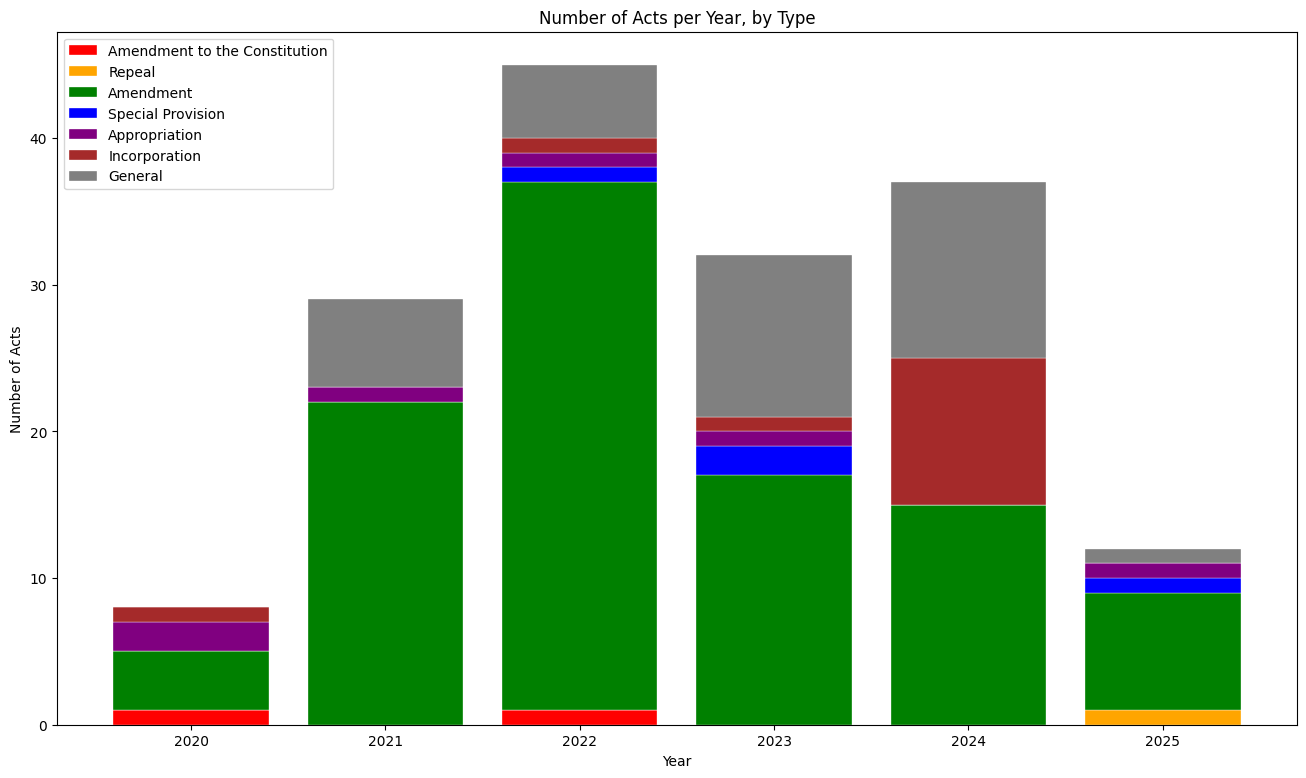
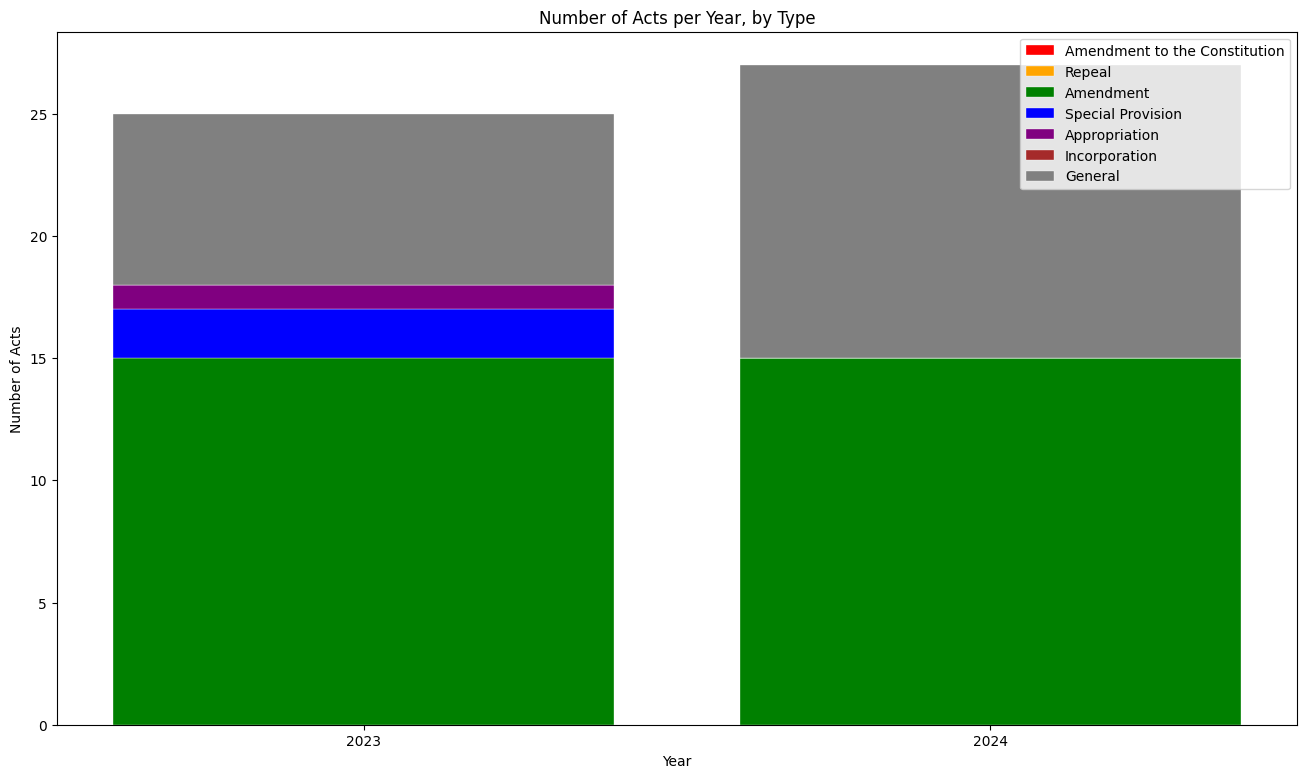
🤖 [readme_build.yml] 2025-08-19-0643

diff --git a/README.md b/README.md
@@ -1,206 +1,78 @@
 # 🇱🇰 Acts from the Sri Lankan Parliament ([lk_acts](https://github.com/nuuuwan/lk_acts))
 
-Scraped  **163** acts (47.01 MB) from [www.parliament.lk](https://www.parliament.lk/en) as of **2025-08-19 10:10:08**.
+Scraped  **52** acts (0.52 MB) from [www.parliament.lk](https://www.parliament.lk/en) as of **2025-08-19 12:13:25**.
 
 ![Year Chart](images/chart_year.png)
 
 ## Download Status
 
-| year | n_metadata | n_pdf | n_txt | n_act_json |
+| decade | n_metadata | n_pdf | n_txt | n_act_json |
 | :-- | --: | --: | --: | --: |
-| 2025 | 12 | 12 | 12 | 2 |
-| 2024 | 37 | 37 | 37 | 27 |
-| 2023 | 32 | 32 | 32 | 25 |
-| 2022 | 45 | 45 | 45 | 35 |
-| 2021 | 29 | 29 | 29 | 18 |
-| 2020 | 8 | 8 | 8 | 0 |
-| Total | 163 | 163 | 163 | 107 |
+| 2020s | 52 | 2 | 2 | 2 |
+| Total | 52 | 2 | 2 | 2 |
 
 ## 🤗 Hugging Face Datasets (🆕)
 
 - [lk-acts-2020-2024-acts](https://huggingface.co/datasets/nuuuwan/lk-acts-2020-2024-acts)
 - [lk-acts-2020-2024-chunks](https://huggingface.co/datasets/nuuuwan/lk-acts-2020-2024-chunks)
 
-## Acts (163)
+## Acts (52)
 
-### 2025 (12)
+### 2024 (27)
 
-- 🟢 `12/2025` [Companies (Amendment)](data/acts/2020s/2025/2025-012) (2025-08-04)
-- 🟢 `11/2025` [National Minimum Wage of Workers (Amendment)](data/acts/2020s/2025/2025-011) (2025-07-22)
-- 🟢 `10/2025` [Budgetary Relief Allowance of Workers (Amendment)](data/acts/2020s/2025/2025-010) (2025-07-23)
-- 🟢 `9/2025` [Budgetary Relief Allowance Of Workers (Amendment)](data/acts/2020s/2025/2025-009) (2025-07-23)
-- 🟢 `8/2025` [National Transport Commission (Amendment)](data/acts/2020s/2025/2025-008) (2025-06-19)
-- 🟢 `7/2025` [CODE OF CRIMINAL PROCEDURE (AMENDMENT)](data/acts/2020s/2025/2025-007) (2025-06-18)
-- 🟠 `6/2025` [FOREIGN LOANS (REPEAL)](data/acts/2020s/2025/2025-006) (2025-05-23)
-- ⚪ `5/2025` [Proceeds of Crime](data/acts/2020s/2025/2025-005) (2025-04-30)
-- 🟢 `4/2025` [Value Added Tax (Amendment)](data/acts/2020s/2025/2025-004) (2025-04-11)
-- 🟣 `3/2025` [Appropriation](data/acts/2020s/2025/2025-003) (2025-03-21)
-- 🟢 `2/2025` [Inland Revenue (Amendment)](data/acts/2020s/2025/2025-002) (2025-03-20)
-- 🔵 `1/2025` [Local Authorities Elections (Special Provisions)](data/acts/2020s/2025/2025-001) (2025-02-17)
+- 🟢 `50/2024` [Code of Criminal Procedure (Amendment)](../lk_acts_data/data/acts/2020s/2024/2024-050) (2024-09-13)
+- ⚪ `49/2024` [Reciprocal Recognition, Registration and Enforcement of Foreign Judgments](../lk_acts_data/data/acts/2020s/2024/2024-049) (2024-09-12)
+- 🟢 `46/2024` [Medical (Amendment)](../lk_acts_data/data/acts/2020s/2024/2024-046) (2024-08-15)
+- ⚪ `45/2024` [Economic Transformation](../lk_acts_data/data/acts/2020s/2024/2024-045) (2024-08-09)
+- ⚪ `44/2024` [Public Financial Management](../lk_acts_data/data/acts/2020s/2024/2024-044) (2024-08-08)
+- 🟢 `43/2024` [Civil Procedure Code (Amendment)](../lk_acts_data/data/acts/2020s/2024/2024-043) (2024-08-02)
+- 🟢 `39/2024` [SRI LANKA TELECOMMUNICATIONS (AMENDMENT)](../lk_acts_data/data/acts/2020s/2024/2024-039) (2024-07-17)
+- ⚪ `38/2024` [Sri Lanka National Commission for the UNESCO](../lk_acts_data/data/acts/2020s/2024/2024-038) (2024-07-02)
+- ⚪ `37/2024` [Women Empowerment](../lk_acts_data/data/acts/2020s/2024/2024-037) (2024-07-02)
+- ⚪ `36/2024` [Sri Lanka Electricity](../lk_acts_data/data/acts/2020s/2024/2024-036) (2024-06-27)
+- ⚪ `33/2024` [Public Debt Management](../lk_acts_data/data/acts/2020s/2024/2024-033) (2024-06-18)
+- 🟢 `28/2024` [Shop and Office Employees (Regulation of Employment and Remuneration) (Amendment)](../lk_acts_data/data/acts/2020s/2024/2024-028) (2024-05-13)
+- 🟢 `26/2024` [Recovery of Loans by Banks (Special Provisions) (Amendment)](../lk_acts_data/data/acts/2020s/2024/2024-026) (2024-05-08)
+- 🟢 `25/2024` [Code of Criminal Procedure (Amendment)](../lk_acts_data/data/acts/2020s/2024/2024-025) (2024-05-03)
+- 🟢 `23/2024` [Companies (Amendment)](../lk_acts_data/data/acts/2020s/2024/2024-023) (2024-04-01)
+- 🟢 `22/2024` [Inland Trust Receipts (Amendment)](../lk_acts_data/data/acts/2020s/2024/2024-022) (2024-04-01)
+- 🟢 `21/2024` [Finance Leasing (Amendment)](../lk_acts_data/data/acts/2020s/2024/2024-021) (2024-04-01)
+- 🟢 `19/2024` [Trust Receipts (Amendment)](../lk_acts_data/data/acts/2020s/2024/2024-019) (2024-04-01)
+- ⚪ `17/2024` [Secured Transactions](../lk_acts_data/data/acts/2020s/2024/2024-017) (2024-04-01)
+- 🟢 `15/2024` [Social Security Contribution Levy (Amendment)](../lk_acts_data/data/acts/2020s/2024/2024-015) (2024-03-20)
+- ⚪ `9/2024` [Online Safety](../lk_acts_data/data/acts/2020s/2024/2024-009) (2024-02-01)
+- ⚪ `8/2024` [Contempt of a Court, Tribunal or Institution](../lk_acts_data/data/acts/2020s/2024/2024-008) (2024-02-01)
+- ⚪ `7/2024` [National Hydrographic Act](../lk_acts_data/data/acts/2020s/2024/2024-007) (2024-02-01)
+- ⚪ `5/2024` [The Recognition and Enforcement of International Settlement Agreements Resulting From Mediation](../lk_acts_data/data/acts/2020s/2024/2024-005) (2024-01-31)
+- 🟢 `4/2024` [Prevention of Frauds (Amendment)](../lk_acts_data/data/acts/2020s/2024/2024-004) (2024-01-23)
+- 🟢 `3/2024` [Powers of Attorney (Amendment)](../lk_acts_data/data/acts/2020s/2024/2024-003) (2024-01-23)
+- 🟢 `2/2024` [Mediation Board (Amendment) Act](../lk_acts_data/data/acts/2020s/2024/2024-002) (2024-01-23)
 
-### 2024 (37)
+### 2023 (25)
 
-- 🟢 `50/2024` [Code of Criminal Procedure (Amendment)](data/acts/2020s/2024/2024-050) (2024-09-13)
-- ⚪ `49/2024` [Reciprocal Recognition, Registration and Enforcement of Foreign Judgments](data/acts/2020s/2024/2024-049) (2024-09-12)
-- 🟢 `46/2024` [Medical (Amendment)](data/acts/2020s/2024/2024-046) (2024-08-15)
-- ⚪ `45/2024` [Economic Transformation](data/acts/2020s/2024/2024-045) (2024-08-09)
-- ⚪ `44/2024` [Public Financial Management](data/acts/2020s/2024/2024-044) (2024-08-08)
-- 🟢 `43/2024` [Civil Procedure Code (Amendment)](data/acts/2020s/2024/2024-043) (2024-08-02)
-- 🟤 `40/2024` [Shaili Educational Foundation (Incorporation)](data/acts/2020s/2024/2024-040) (2024-07-19)
-- 🟢 `39/2024` [SRI LANKA TELECOMMUNICATIONS (AMENDMENT)](data/acts/2020s/2024/2024-039) (2024-07-17)
-- ⚪ `38/2024` [Sri Lanka National Commission for the UNESCO](data/acts/2020s/2024/2024-038) (2024-07-02)
-- ⚪ `37/2024` [Women Empowerment](data/acts/2020s/2024/2024-037) (2024-07-02)
-- ⚪ `36/2024` [Sri Lanka Electricity](data/acts/2020s/2024/2024-036) (2024-06-27)
-- 🟤 `35/2024` [Dedigama Sri Maithri Pragnartha Bouddha Educational Daham Sabhawa (Incorporation)](data/acts/2020s/2024/2024-035) (2024-06-19)
-- 🟤 `34/2024` [Institute of Chartered Shipbrokers of Sri Lanka (Incorporation)](data/acts/2020s/2024/2024-034) (2024-06-19)
-- ⚪ `33/2024` [Public Debt Management](data/acts/2020s/2024/2024-033) (2024-06-18)
-- 🟤 `32/2024` [International Institute of Theravadha (Incorporation)](data/acts/2020s/2024/2024-032) (2024-06-18)
-- 🟤 `31/2024` [Pavithra Wanniarachchi Sahurda Foundation (Incorporation)](data/acts/2020s/2024/2024-031) (2024-06-18)
-- 🟤 `30/2024` [Kelaniya Buddhist Women's Charitable Society (Incorporation) Bill](data/acts/2020s/2024/2024-030) (2024-06-12)
-- 🟤 `29/2024` [Saweera Foundation (Incorporation)](data/acts/2020s/2024/2024-029) (2024-06-12)
-- 🟢 `28/2024` [Shop and Office Employees (Regulation of Employment and Remuneration) (Amendment)](data/acts/2020s/2024/2024-028) (2024-05-13)
-- 🟢 `26/2024` [Recovery of Loans by Banks (Special Provisions) (Amendment)](data/acts/2020s/2024/2024-026) (2024-05-08)
-- 🟢 `25/2024` [Code of Criminal Procedure (Amendment)](data/acts/2020s/2024/2024-025) (2024-05-03)
-- 🟢 `23/2024` [Companies (Amendment)](data/acts/2020s/2024/2024-023) (2024-04-01)
-- 🟢 `22/2024` [Inland Trust Receipts (Amendment)](data/acts/2020s/2024/2024-022) (2024-04-01)
-- 🟢 `21/2024` [Finance Leasing (Amendment)](data/acts/2020s/2024/2024-021) (2024-04-01)
-- 🟢 `19/2024` [Trust Receipts (Amendment)](data/acts/2020s/2024/2024-019) (2024-04-01)
-- ⚪ `17/2024` [Secured Transactions](data/acts/2020s/2024/2024-017) (2024-04-01)
-- 🟢 `15/2024` [Social Security Contribution Levy (Amendment)](data/acts/2020s/2024/2024-015) (2024-03-20)
-- 🟤 `14/2024` [Dassana Bauddha Sanvidhanaya (Incorporation)](data/acts/2020s/2024/2024-014) (2024-02-19)
-- 🟤 `13/2024` [Samadhi Community Development Foundation (Incorporation)](data/acts/2020s/2024/2024-013) (2024-02-19)
-- 🟤 `12/2024` [Sri Balabhivurdhi Wardana Samithiya (Incorporation)](data/acts/2020s/2024/2024-012) (2024-02-19)
-- ⚪ `9/2024` [Online Safety](data/acts/2020s/2024/2024-009) (2024-02-01)
-- ⚪ `8/2024` [Contempt of a Court, Tribunal or Institution](data/acts/2020s/2024/2024-008) (2024-02-01)
-- ⚪ `7/2024` [National Hydrographic Act](data/acts/2020s/2024/2024-007) (2024-02-01)
-- ⚪ `5/2024` [The Recognition and Enforcement of International Settlement Agreements Resulting From Mediation](data/acts/2020s/2024/2024-005) (2024-01-31)
-- 🟢 `4/2024` [Prevention of Frauds (Amendment)](data/acts/2020s/2024/2024-004) (2024-01-23)
-- 🟢 `3/2024` [Powers of Attorney (Amendment)](data/acts/2020s/2024/2024-003) (2024-01-23)
-- 🟢 `2/2024` [Mediation Board (Amendment) Act](data/acts/2020s/2024/2024-002) (2024-01-23)
-
-### 2023 (32)
-
-- 🟣 `34/2023` [Appropriation](data/acts/2020s/2023/2023-034) (2023-12-13)
-- ⚪ `33/2023` [Finance](data/acts/2020s/2023/2023-033) (2023-12-13)
-- 🟢 `32/2023` [Value Added Tax (Amendment) Act, No. 32 of 2023](data/acts/2020s/2023/2023-032) (2023-12-13)
-- ⚪ `31/2023` [Galaha Bhaddrawathie National Bhikku Care Centre Trust](data/acts/2020s/2023/2023-031) (2023-11-24)
-- 🟢 `30/2023` [Local Authorities Elections (Amendment)](data/acts/2020s/2023/2023-030) (2023-11-17)
-- 🟢 `29/2023` [Civil Procedure Code (Amendment)](data/acts/2020s/2023/2023-029) (2023-11-17)
-- 🟢 `28/2023` [Anti-Corruption (Amendment)](data/acts/2020s/2023/2023-028) (2023-11-17)
-- 🟢 `27/2023` [Fisheries and Aquatic Resources (Amendment)](data/acts/2020s/2023/2023-027) (2023-11-17)
-- ⚪ `26/2023` [Conferring the Honour of Senior Instructing Attorneys - at- Law](data/acts/2020s/2023/2023-026) (2023-11-01)
-- ⚪ `25/2023` [Balapitiya Sri Rahularama Purana Viharastha Samanera Akalpa Sangwardena Bikshu Vidyalaya (Incorporat](data/acts/2020s/2023/2023-025) (2023-11-01)
-- 🟢 `24/2023` [Civil Aviation (Amendment)](data/acts/2020s/2023/2023-024) (2023-10-17)
-- 🟢 `23/2023` [Sri Lanka Ports Authority (Amendment)](data/acts/2020s/2023/2023-023) (2023-10-17)
-- ⚪ `22/2023` [National Eye Bank Trust of Sri Lanka](data/acts/2020s/2023/2023-022) (2023-10-17)
-- 🔵 `21/2023` [Elections (Special Provisions)](data/acts/2020s/2023/2023-021) (2023-10-17)
-- 🟢 `20/2023` [Civil Procedure Code (Amendment)](data/acts/2020s/2023/2023-020) (2023-10-17)
-- 🟢 `19/2023` [Ayurveda (Amendment)](data/acts/2020s/2023/2023-019) (2023-10-09)
-- 🟢 `18/2023` [Chartered Institute of Transport of Sri Lanka (Incorporation)(Amendment)](data/acts/2020s/2023/2023-018) (2023-09-19)
-- 🔵 `17/2023` [BANKING (SPECIAL PROVISIONS)](data/acts/2020s/2023/2023-017) (2023-09-14)
-- ⚪ `16/2023` [Central Bank of Sri Lanka](data/acts/2020s/2023/2023-016) (2023-09-14)
-- 🟢 `15/2023` [Social Security Contribution Levy (Amendment)](data/acts/2020s/2023/2023-015) (2023-09-08)
-- 🟢 `14/2023` [Inland Revenue (Amendment)](data/acts/2020s/2023/2023-014) (2023-09-08)
-- 🟢 `13/2023` [Sri Lanka Institute of Taxation (Incorporation) (Amendment)](data/acts/2020s/2023/2023-013) (2023-08-21)
-- 🟢 `12/2023` [Appropriation (Amendment)](data/acts/2020s/2023/2023-012) (2023-08-21)
-- 🟢 `11/2023` [Betting and Gaming Levy (Amendment)](data/acts/2020s/2023/2023-011) (2023-08-21)
-- ⚪ `10/2023` [Assistance to and Protection of Victims of Crime and Witnesses](data/acts/2020s/2023/2023-010) (2023-08-08)
-- ⚪ `9/2023` [ANTI-CORRUPTION](data/acts/2020s/2023/2023-009) (2023-08-08)
-- 🟢 `8/2023` [Carriage by Air (Amendment)](data/acts/2020s/2023/2023-008) (2023-07-14)
-- ⚪ `6/2023` [Parliamentary Budget Office](data/acts/2020s/2023/2023-006) (2023-06-27)
-- 🟤 `5/2023` [Rathanatissa Peace Foundation ( Incorporation)](data/acts/2020s/2023/2023-005) (2023-05-23)
-- 🟢 `4/2023` [Inland Revenue (Amendment)](data/acts/2020s/2023/2023-004) (2023-05-08)
-- ⚪ `3/2023` [Regulation of Election Expenditure](data/acts/2020s/2023/2023-003) (2023-01-24)
-- ⚪ `2/2023` [Bureau of Rehabilitation](data/acts/2020s/2023/2023-002) (2023-01-24)
-
-### 2022 (45)
-
-- 🔴 `0000` [Twenty First Amendment to the Constitution](data/acts/2020s/2022/2022-twenty-first-amendment-to-the-constitution) (2022-10-31)
-- 🟢 `45/2022` [Inland Revenue (Amendment)](data/acts/2020s/2022/2022-045) (2022-12-19)
-- 🟢 `44/2022` [Value Added Tax (Amendment)](data/acts/2020s/2022/2022-044) (2022-12-14)
-- 🟣 `43/2022` [Appropriation](data/acts/2020s/2022/2022-043) (2022-12-08)
-- 🟢 `42/2023` [Appropriation (Amendment)](data/acts/2020s/2022/2022-042) (2022-11-30)
-- 🟢 `41/2022` [Poisons, Opium and Dangerous Drugs (Amendment)](data/acts/2020s/2022/2022-041) (2022-11-23)
-- 🟢 `40/2022` [Dangerous Animals (Amendment)](data/acts/2020s/2022/2022-040) (2022-11-17)
-- 🟢 `39/2022` [Children and Young Persons (Amendment)](data/acts/2020s/2022/2022-039) (2022-11-17)
-- 🟢 `38/2022` [Code of Criminal Procedure (Amendment)](data/acts/2020s/2022/2022-038) (2022-11-17)
-- 🟢 `37/2022` [Kandyan Marriage and Divorce (Amendment)](data/acts/2020s/2022/2022-037) (2022-11-17)
-- 🟢 `36/2022` [Civil Procedure Code (Amendment)](data/acts/2020s/2022/2022-036) (2022-11-17)
-- 🟢 `35/2022` [High Court of the Provinces (Special Provisions) (Amendment)](data/acts/2020s/2022/2022-035) (2022-11-17)
-- 🟢 `34/2022` [Judicature (Amendment)](data/acts/2020s/2022/2022-034) (2022-11-17)
-- ⚪ `33/2022` [Small Claims Courts' Procedure](data/acts/2020s/2022/2022-033) (2022-11-17)
-- 🟢 `32/2022` [Registration of Documents (Amendment)](data/acts/2020s/2022/2022-032) (2022-10-31)
-- 🟢 `31/2022` [Notaries (Amendment)](data/acts/2020s/2022/2022-031) (2022-10-31)
-- 🟢 `30/2022` [Prevention of Frauds ( Amendment)](data/acts/2020s/2022/2022-030) (2022-10-25)
-- 🟢 `29/2022` [Wills (Amendment)](data/acts/2020s/2022/2022-029) (2022-10-25)
-- 🟢 `28/2022` [Powers of Attorney (Amendment)](data/acts/2020s/2022/2022-028) (2022-10-25)
-- 🟢 `27/2022` [Petroleum Products (Special Provisions) (Amendment)](data/acts/2020s/2022/2022-027) (2022-10-21)
-- 🟢 `26/2022` [Sri Lanka Rupavahini Corporation (Amendment)](data/acts/2020s/2022/2022-026) (2022-09-26)
-- ⚪ `25/2022` [Social Security Contribution levy](data/acts/2020s/2022/2022-025) (2022-09-20)
-- 🟢 `24/2022` [Industrial Disputes (Amendment)](data/acts/2020s/2022/2022-024) (2022-09-16)
-- 🟢 `23/2022` [Termination of Employment of Workmen  (Special Provisions) (Amendment)](data/acts/2020s/2022/2022-023) (2022-09-16)
-- 🟢 `22/2022` [Industrial Disputes (Amendment)](data/acts/2020s/2022/2022-022) (2022-09-16)
-- 🟢 `21/2022` [Appropriation (Amendment)](data/acts/2020s/2022/2022-021) (2022-09-09)
-- 🔵 `19/2022` [Industrial Disputes (Special Provisions)](data/acts/2020s/2022/2022-019) (2022-06-23)
-- 🟢 `18/2022` [Code of Criminal Procedure (Amendment)](data/acts/2020s/2022/2022-018) (2022-06-23)
-- 🟢 `17/2022` [Civil Procedure Code (Amendment)](data/acts/2020s/2022/2022-017) (2022-06-23)
-- 🟢 `16/2022` [Sri Lanka Electricity (Amendment)](data/acts/2020s/2022/2022-016) (2022-06-15)
-- 🟤 `15/2022` [Sri Shakyasinharama Viharastha Karyasadhaka Sanvidanaya (Incorporation)](data/acts/2020s/2022/2022-015) (2022-05-18)
-- ⚪ `14/2022` [Surcharge Tax](data/acts/2020s/2022/2022-014) (2022-04-08)
-- 🟢 `13/2022` [Value Added Tax (Amendment)](data/acts/2020s/2022/2022-013) (2022-03-31)
-- 🟢 `12/2022` [Prevention of Terrorism (Temporary Provisions) (Amendment)](data/acts/2020s/2022/2022-012) (2022-03-29)
-- 🟢 `11/2022` [Land Development (Amendment)](data/acts/2020s/2022/2022-011) (2022-03-19)
-- 🟢 `10/2022` [Workmen's Compensation (Amendment)](data/acts/2020s/2022/2022-010) (2022-03-19)
-- ⚪ `9/2022` [Personal Data Protection](data/acts/2020s/2022/2022-009) (2022-03-19)
-- 🟢 `8/2022` [INTELLECTUAL PROPERTY (AMENDMENT)](data/acts/2020s/2022/2022-008) (2022-03-16)
-- 🟢 `7/2022` [Fauna and Flora Protection (Amendment)](data/acts/2020s/2022/2022-007) (2022-03-02)
-- 🟢 `6/2022` [Provincial Councils (Transfer of Stamp Duty) (Amendment)](data/acts/2020s/2022/2022-006) (2022-02-17)
-- 🟢 `5/2022` [Civil Procedure Code (Amendment)](data/acts/2020s/2022/2022-005) (2022-02-17)
-- 🟢 `4/2022` [Judicature (Amendment)](data/acts/2020s/2022/2022-004) (2022-02-17)
-- ⚪ `3/2022` [PROHIBITION OF ANTI-PERSONNEL MINES](data/acts/2020s/2022/2022-003) (2022-02-17)
-- 🟢 `2/2022` [Code of Criminal Procedure (Amendment)](data/acts/2020s/2022/2022-002) (2022-02-17)
-- 🟢 `1/2022` [Mahapola Higher Education Scholarship Trust Fund (Amendment)](data/acts/2020s/2022/2022-001) (2022-02-14)
-
-### 2021 (29)
-
-- 🟣 `30/2021` [Appropriation](data/acts/2020s/2021/2021-030) (2021-12-10)
-- 🟢 `29/2021` [Termination of Employment of Workmen (Special Provisions) (Amendment)](data/acts/2020s/2021/2021-029) (2021-11-17)
-- ⚪ `28/2021` [Minimum Retirement Age of Workers](data/acts/2020s/2021/2021-028) (2021-11-17)
-- 🟢 `27/2021` [Immigrants and Emigrants (Amendment)](data/acts/2020s/2021/2021-027) (2021-11-12)
-- 🟢 `26/2021` [APPROPRIATION (AMENDMENT)](data/acts/2020s/2021/2021-026) (2021-11-12)
-- 🟢 `25/2021` [Penal Code (Amendment)](data/acts/2020s/2021/2021-025) (2021-10-26)
-- 🟢 `24/2021` [Youthful Offenders (Training Schools) (Amendment)](data/acts/2020s/2021/2021-024) (2021-10-26)
-- 🟢 `23/2021` [Employees' Provident Fund (Amendment)](data/acts/2020s/2021/2021-023) (2021-10-13)
-- 🟢 `22/2021` [Registration of Electors (Amendment)](data/acts/2020s/2021/2021-022) (2021-10-07)
-- ⚪ `21/2021` [Petroleum Resources](data/acts/2020s/2021/2021-021) (2021-10-08)
-- 🟢 `20/2021` [Consumer Affairs Authority (Amendment)](data/acts/2020s/2021/2021-020) (2021-09-22)
-- ⚪ `19/2021` [Securities and Exchange Commission of Sri Lanka](data/acts/2020s/2021/2021-019) (2021-09-21)
-- ⚪ `18/2021` [Finance](data/acts/2020s/2021/2021-018) (2021-09-15)
-- ⚪ `17/2021` [Coronavirus Disease 2019 (Covid-19)(Temporary Provision)](data/acts/2020s/2021/2021-017) (2021-08-23)
-- 🟢 `16/2021` [National Minimum Wage of Workers (Amendment)](data/acts/2020s/2021/2021-016) (2021-08-16)
-- 🟢 `15/2021` [Convention Against Torture and Other Cruel, Inhuman or Degrading Treatment or Punishment (Amendment)](data/acts/2020s/2021/2021-015) (2021-07-15)
-- 🟢 `14/2021` [Code of Criminal Procedure (Amendment)](data/acts/2020s/2021/2021-014) (2021-07-15)
-- 🟢 `13/2021` [Sri Lanka Land Development Corporation (Amendment)](data/acts/2020s/2021/2021-013) (2021-06-30)
-- 🟢 `12/2021` [Fiscal Management (Responsibility)(Amendment)](data/acts/2020s/2021/2021-012) (2021-06-14)
-- ⚪ `11/2021` [Colombo Port City Economic Commission](data/acts/2020s/2021/2021-011) (2021-05-27)
-- 🟢 `10/2021` [Inland Revenue (Amendment)](data/acts/2020s/2021/2021-010) (2021-05-13)
-- 🟢 `8/2021` [Intellectual Property (Amendment)](data/acts/2020s/2021/2021-008) (2021-01-18)
-- 🟢 `7/2021` [Bail (Amendment)](data/acts/2020s/2021/2021-007) (2021-01-18)
-- 🟢 `6/2021` [Evidence (Amendment)](data/acts/2020s/2021/2021-006) (2021-01-18)
-- 🟢 `5/2021` [Penal Code (Amendment)](data/acts/2020s/2021/2021-005) (2021-01-18)
-- 🟢 `4/2021` [Factories (Amendment)](data/acts/2020s/2021/2021-004) (2021-01-18)
-- 🟢 `3/2021` [Minimum Wages (Indian Labour) (Amendment)](data/acts/2020s/2021/2021-003) (2021-01-18)
-- 🟢 `2/2021` [Employment of Women, Young Persons and Children (Amendment)](data/acts/2020s/2021/2021-002) (2021-01-18)
-- 🟢 `1/2021` [Shop and Office Employees (Regulation of Employment and Remuneration)(Amendment)](data/acts/2020s/2021/2021-001) (2021-01-18)
-
-### 2020 (8)
-
-- 🔴 `0000` [Twentieth Amendment to the Constitution](data/acts/2020s/2020/2020-twentieth-amendment-to-the-constitution) (2020-10-29)
-- 🟣 `7/2020` [Appropriation](data/acts/2020s/2020/2020-007) (2020-12-10)
-- 🟣 `6/2020` [Appropriation](data/acts/2020s/2020/2020-006) (2020-11-20)
-- 🟢 `5/2020` [Ports and Airports Development Levy (Amendment)](data/acts/2020s/2020/2020-005) (2020-10-12)
-- 🟢 `4/2020` [Economic Service Charge (Amendment)](data/acts/2020s/2020/2020-004) (2020-10-12)
-- 🟢 `3/2020` [Nation Building Tax (Amendment)](data/acts/2020s/2020/2020-003) (2020-10-12)
-- 🟢 `2/2020` [Finance (Amendment)](data/acts/2020s/2020/2020-002) (2020-10-12)
-- 🟤 `1/2020` [Institute of Environmental professionals, Sri Lanka (Incorporation)](data/acts/2020s/2020/2020-001) (2020-02-26)
+- 🟣 `34/2023` [Appropriation](../lk_acts_data/data/acts/2020s/2023/2023-034) (2023-12-13)
+- ⚪ `33/2023` [Finance](../lk_acts_data/data/acts/2020s/2023/2023-033) (2023-12-13)
+- 🟢 `32/2023` [Value Added Tax (Amendment) Act, No. 32 of 2023](../lk_acts_data/data/acts/2020s/2023/2023-032) (2023-12-13)
+- 🟢 `29/2023` [Civil Procedure Code (Amendment)](../lk_acts_data/data/acts/2020s/2023/2023-029) (2023-11-17)
+- 🟢 `28/2023` [Anti-Corruption (Amendment)](../lk_acts_data/data/acts/2020s/2023/2023-028) (2023-11-17)
+- 🟢 `27/2023` [Fisheries and Aquatic Resources (Amendment)](../lk_acts_data/data/acts/2020s/2023/2023-027) (2023-11-17)
+- ⚪ `26/2023` [Conferring the Honour of Senior Instructing Attorneys - at- Law](../lk_acts_data/data/acts/2020s/2023/2023-026) (2023-11-01)
+- 🟢 `24/2023` [Civil Aviation (Amendment)](../lk_acts_data/data/acts/2020s/2023/2023-024) (2023-10-17)
+- 🟢 `23/2023` [Sri Lanka Ports Authority (Amendment)](../lk_acts_data/data/acts/2020s/2023/2023-023) (2023-10-17)
+- ⚪ `22/2023` [National Eye Bank Trust of Sri Lanka](../lk_acts_data/data/acts/2020s/2023/2023-022) (2023-10-17)
+- 🔵 `21/2023` [Elections (Special Provisions)](../lk_acts_data/data/acts/2020s/2023/2023-021) (2023-10-17)
+- 🟢 `20/2023` [Civil Procedure Code (Amendment)](../lk_acts_data/data/acts/2020s/2023/2023-020) (2023-10-17)
+- 🟢 `19/2023` [Ayurveda (Amendment)](../lk_acts_data/data/acts/2020s/2023/2023-019) (2023-10-09)
+- 🔵 `17/2023` [BANKING (SPECIAL PROVISIONS)](../lk_acts_data/data/acts/2020s/2023/2023-017) (2023-09-14)
+- ⚪ `16/2023` [Central Bank of Sri Lanka](../lk_acts_data/data/acts/2020s/2023/2023-016) (2023-09-14)
+- 🟢 `15/2023` [Social Security Contribution Levy (Amendment)](../lk_acts_data/data/acts/2020s/2023/2023-015) (2023-09-08)
+- 🟢 `14/2023` [Inland Revenue (Amendment)](../lk_acts_data/data/acts/2020s/2023/2023-014) (2023-09-08)
+- 🟢 `13/2023` [Sri Lanka Institute of Taxation (Incorporation) (Amendment)](../lk_acts_data/data/acts/2020s/2023/2023-013) (2023-08-21)
+- 🟢 `12/2023` [Appropriation (Amendment)](../lk_acts_data/data/acts/2020s/2023/2023-012) (2023-08-21)
+- 🟢 `11/2023` [Betting and Gaming Levy (Amendment)](../lk_acts_data/data/acts/2020s/2023/2023-011) (2023-08-21)
+- ⚪ `10/2023` [Assistance to and Protection of Victims of Crime and Witnesses](../lk_acts_data/data/acts/2020s/2023/2023-010) (2023-08-08)
+- ⚪ `9/2023` [ANTI-CORRUPTION](../lk_acts_data/data/acts/2020s/2023/2023-009) (2023-08-08)
+- 🟢 `8/2023` [Carriage by Air (Amendment)](../lk_acts_data/data/acts/2020s/2023/2023-008) (2023-07-14)
+- ⚪ `6/2023` [Parliamentary Budget Office](../lk_acts_data/data/acts/2020s/2023/2023-006) (2023-06-27)
+- 🟢 `4/2023` [Inland Revenue (Amendment)](../lk_acts_data/data/acts/2020s/2023/2023-004) (2023-05-08)
 
